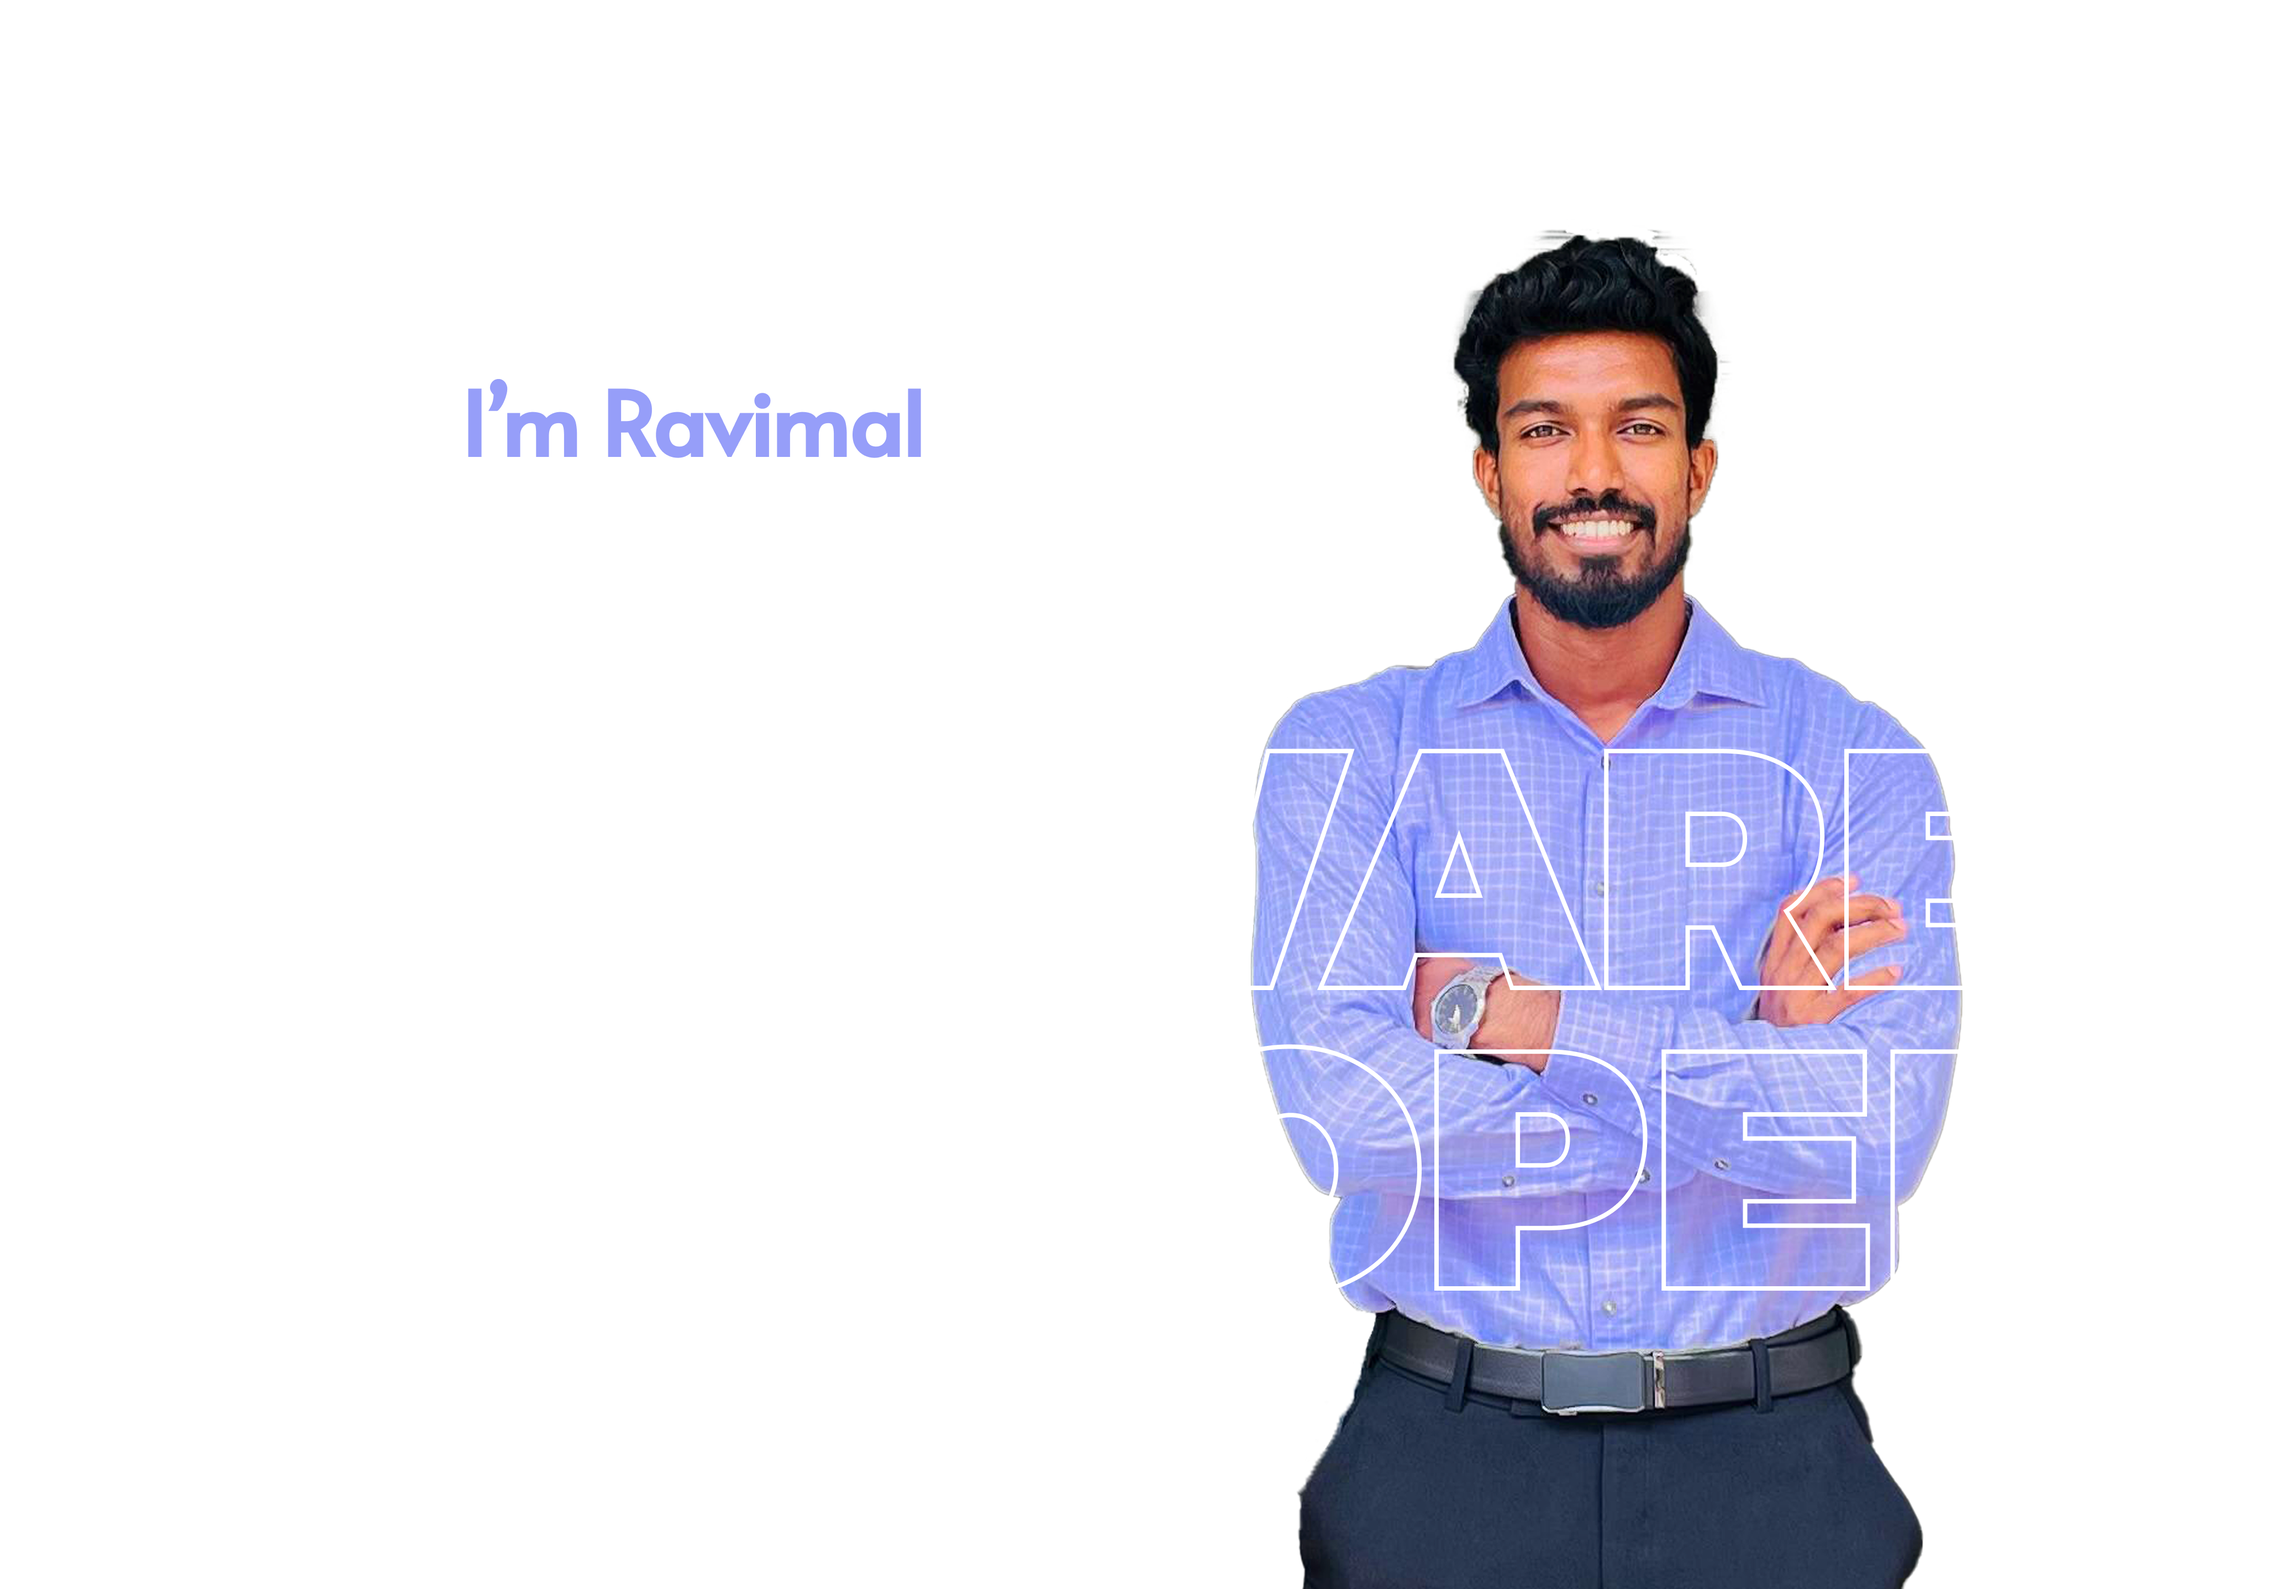
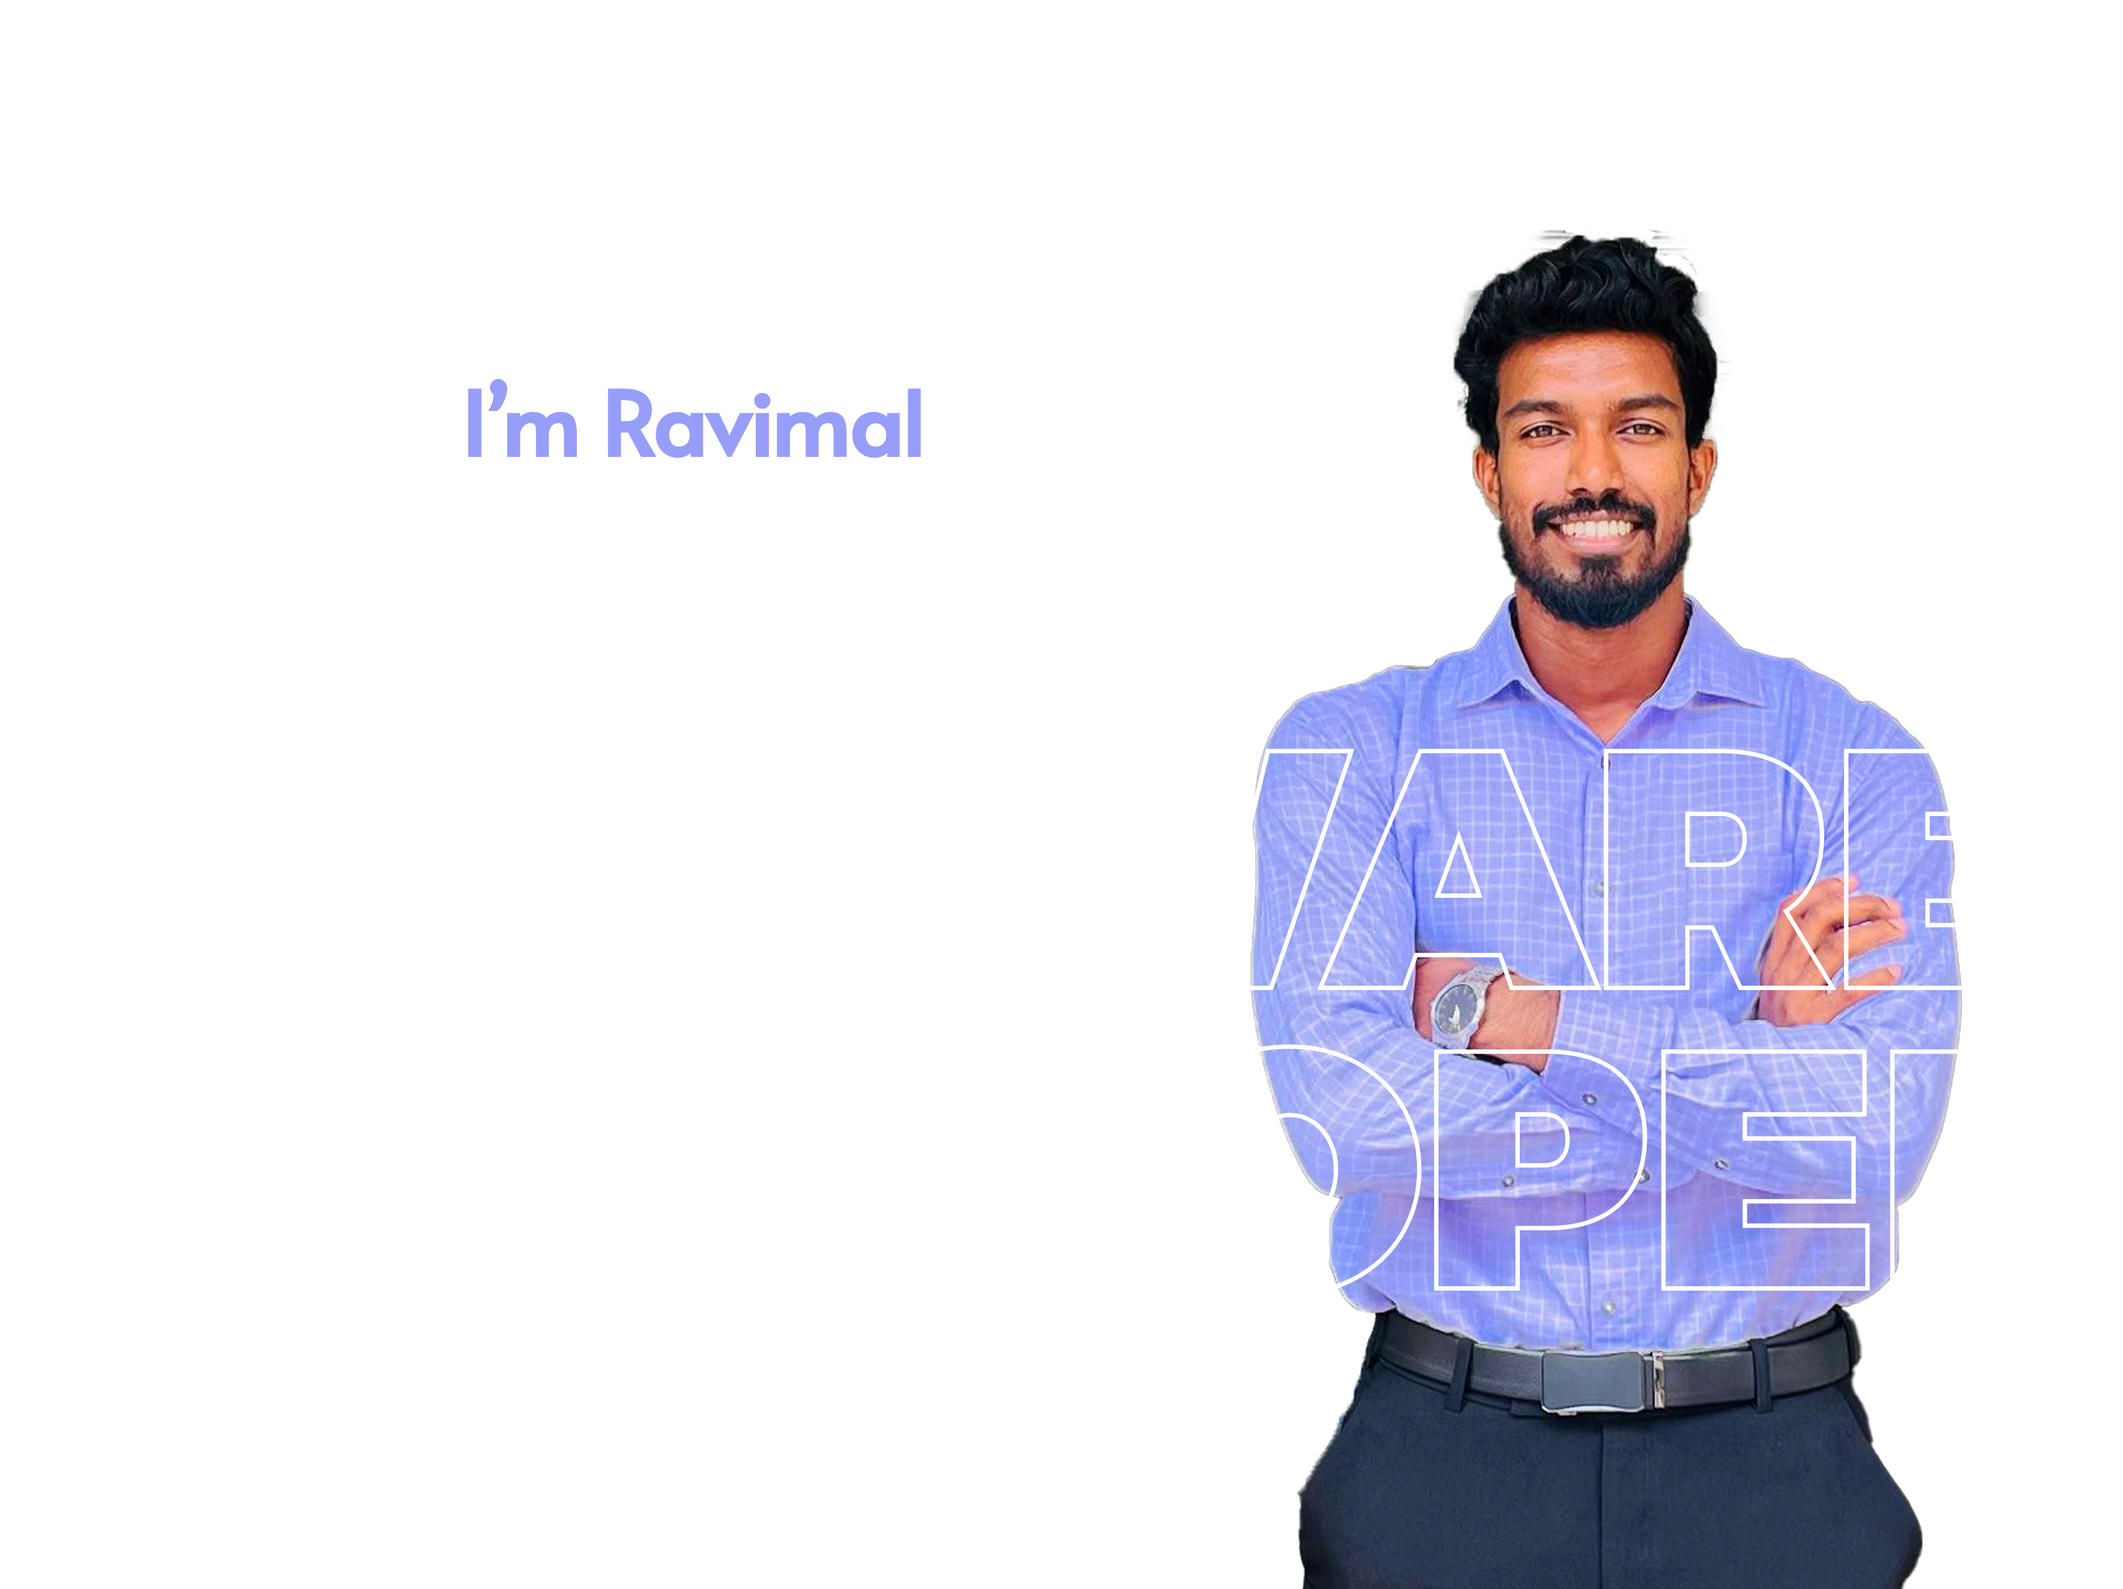
update

Changed region(s): [[0.5308, 0.1238, 0.9368, 1.0], [0.1874, 0.2166, 0.4372, 0.3095]]

diff --git a/src/views/About.jsx b/src/views/About.jsx
@@ -1,0 +1,16 @@
+import { getProfile } from "../controllers/profileController";
+import checkImg from "../reources/images/checkImg.jpg";
+
+function About() {
+const data = getProfile();
+
+return(
+    <section className="about">
+        <div className="top">
+            <img src={checkImg} alt="checkbox Background" />
+        </div>
+    </section>
+);
+}
+
+export default About;

diff --git a/src/index.css b/src/index.css
@@ -34,11 +34,11 @@ body {
   justify-content: space-between;
   align-items: center;
   padding: 0px 150px;
-  background: black;
+  background: #0F1126;
 }
 .logo {
   display: flex;
-  background: black;
+  background: #0F1126;
   padding: 0px 0px;
   font-size:larger;
 }
